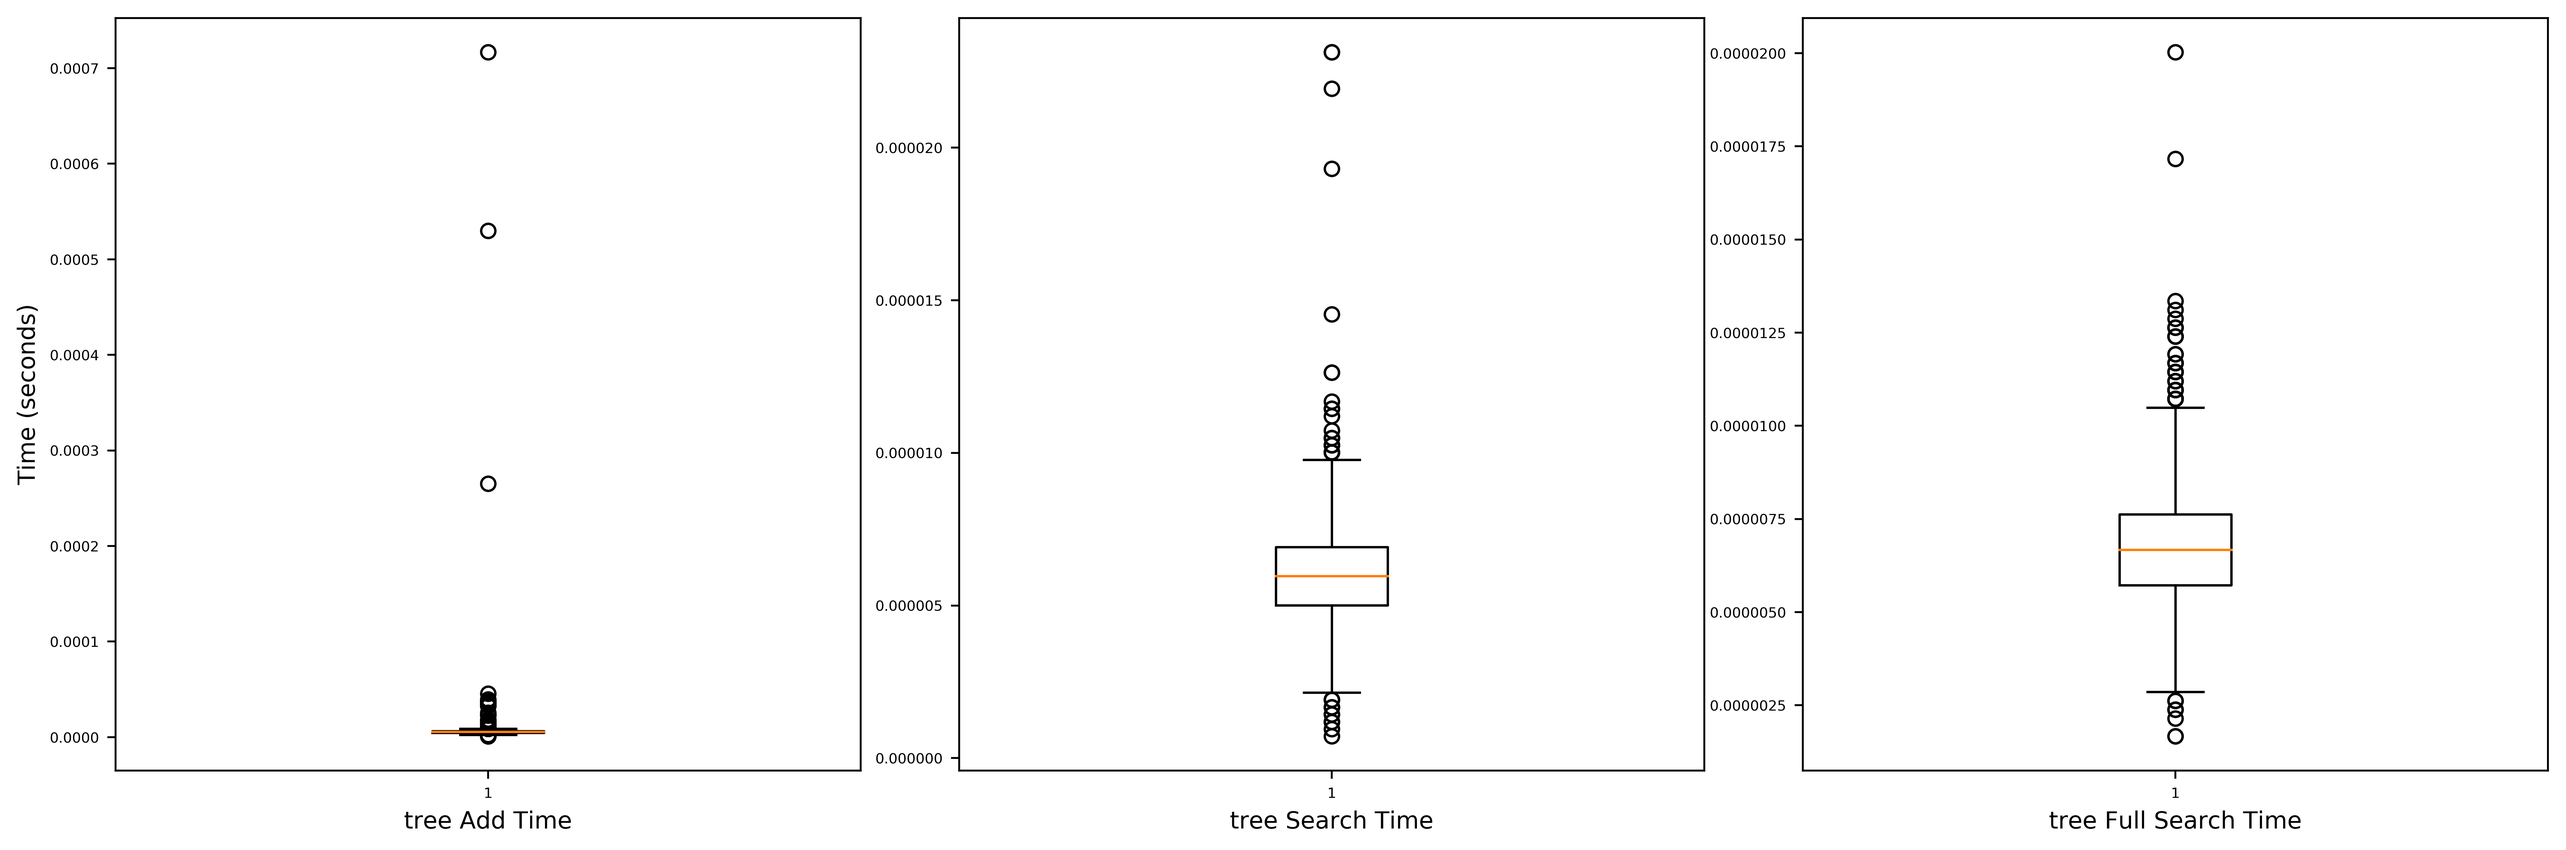
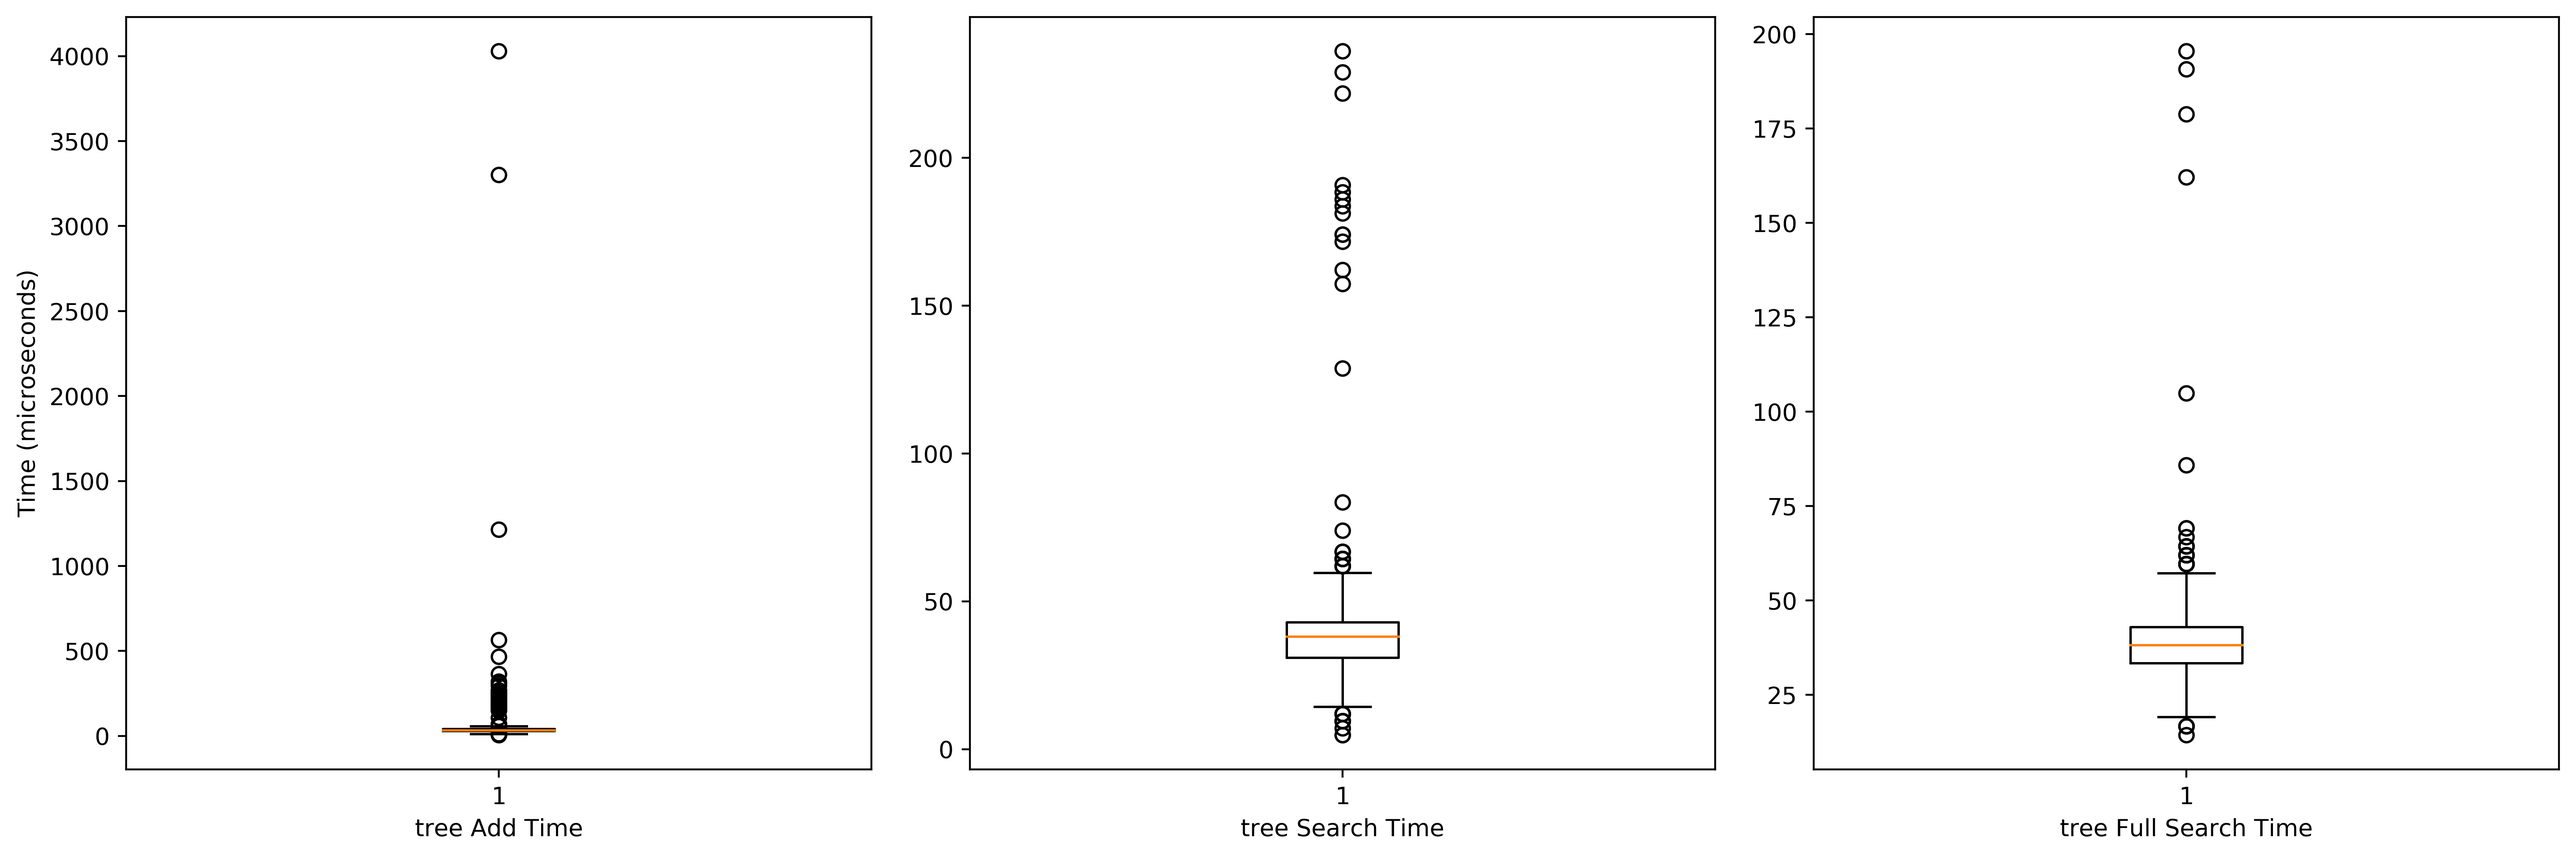
added conclusion and update images

diff --git a/insert_key_value_pairs.py b/insert_key_value_pairs.py
@@ -1,4 +1,3 @@
-import hash_tables
 import avl_tree
 import gen_data
 import random
@@ -11,6 +10,8 @@ import argparse
 import matplotlib
 matplotlib.use('Agg')
 sys.path.insert(1, "hash-tables-tlfobe")  # noqa: E402
+import hash_tables # noqa: E402
+
 
 sys.setrecursionlimit(20000)
 
@@ -87,7 +88,7 @@ def main():
         t0 = time.time()
         data_struct_instance.insert(key, value)
         t1 = time.time()
-        add_times.append(t1 - t0)
+        add_times.append(10e6*(t1 - t0))
 
     # Time it takes to search subset of data
 
@@ -98,7 +99,7 @@ def main():
         t0 = time.time()
         val = data_struct_instance.search(key)
         t1 = time.time()
-        search_times.append(t1 - t0)
+        search_times.append(10e6*(t1 - t0))
 
     # Time it takes to search for not in database
     not_in_db = []
@@ -111,7 +112,7 @@ def main():
         t0 = time.time()
         val = data_struct_instance.search(key)
         t1 = time.time()
-        not_in_db_times.append(t1 - t0)
+        not_in_db_times.append(10e6*(t1 - t0))
         assert val == -1
 
     plt.subplots_adjust(wspace=5)
@@ -128,14 +129,11 @@ def main():
 
     ax[0].boxplot(add_times)
     ax[0].set_xlabel(args.data_struct + " Add Time")
-    ax[0].set_ylabel("Time (seconds)")
-    ax[0].tick_params(labelsize=6)
+    ax[0].set_ylabel("Time (microseconds)")
     ax[1].boxplot(search_times)
     ax[1].set_xlabel(args.data_struct + " Search Time")
-    ax[1].tick_params(labelsize=6)
     ax[2].boxplot(not_in_db_times)
     ax[2].set_xlabel(args.data_struct + " Full Search Time")
-    ax[2].tick_params(labelsize=6)
 
     if args.outfile.split(".")[-1] != "png":
         args.outfile += ".png"

diff --git a/README.md b/README.md
@@ -61,3 +61,5 @@ Lastly, we'll compare how the Chained Hash performs on the ordered keys. At 100 
 
 
 ## Conclusions
+
+In both instances we see the sorted data performs less well poor performance with sorted values. While trees are a useful data structure, hash tables generally outperformed trees.
